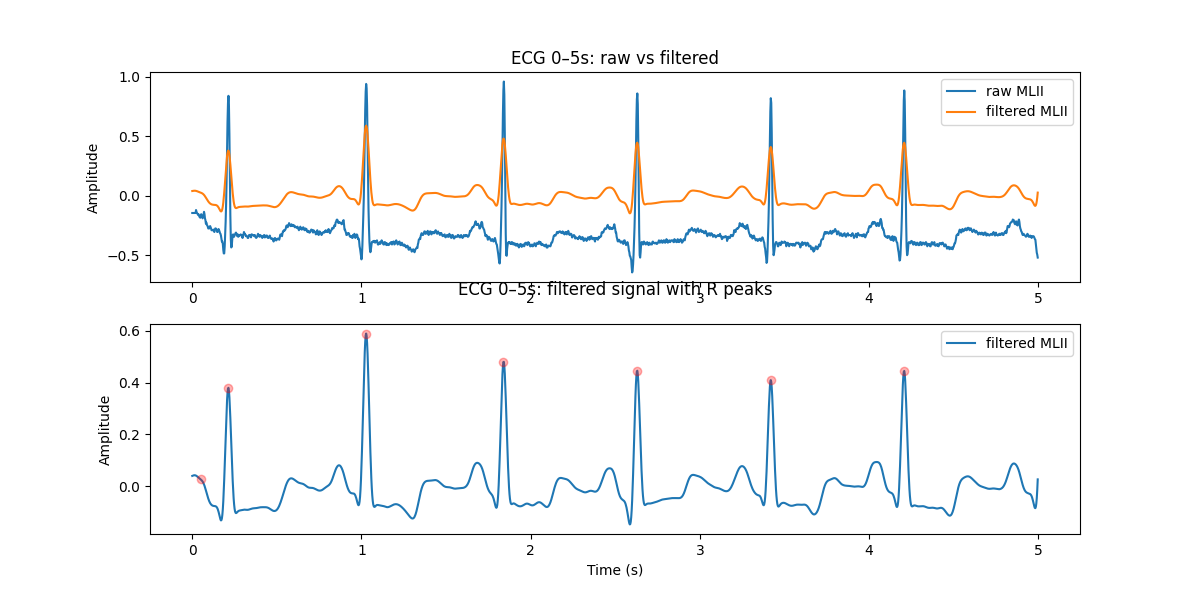
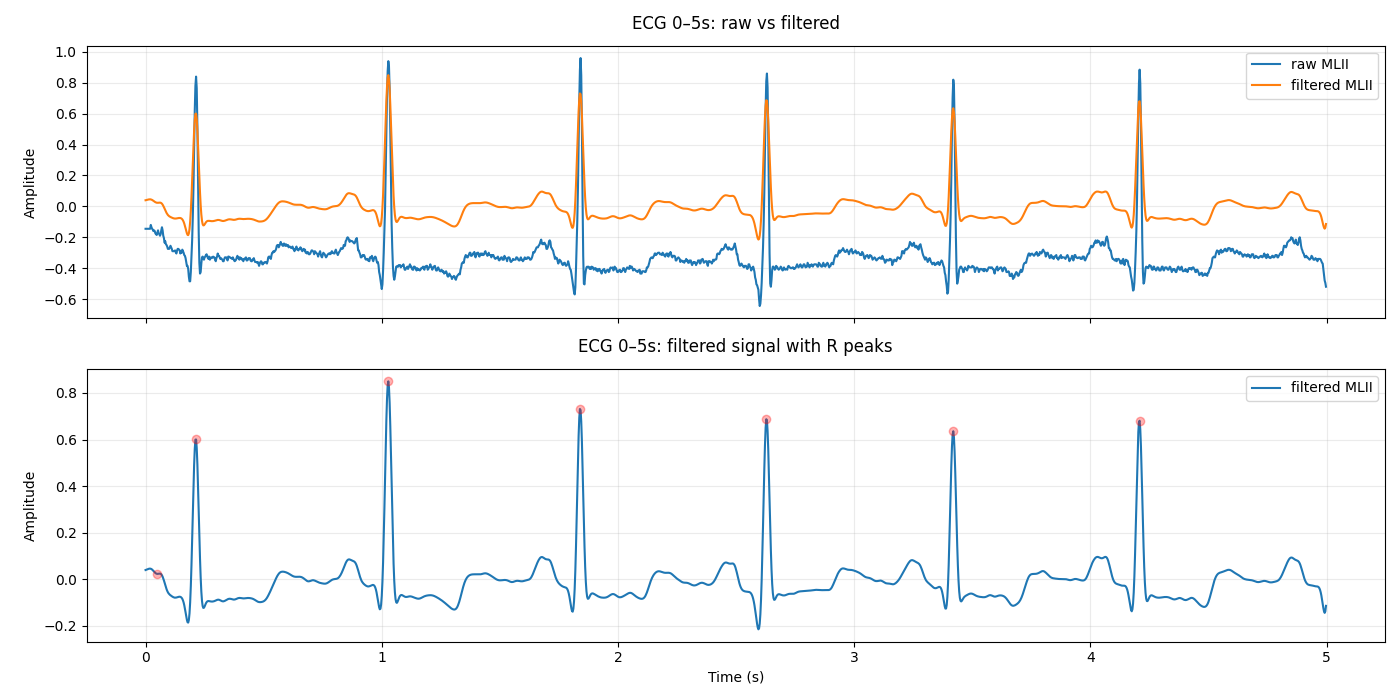
change plotting scheme to using sca for cleaner plots and update readme media

diff --git a/main.py b/main.py
@@ -37,13 +37,15 @@ def main():
     refined_r_peaks = beats.calibrate_r_peaks(bpf_notch_signal, extracted_r_peaks, fs=fs, search_radius_ms=80.0)
 
     # TODO: VALIDATE EXTRACTED R PEAKS USING ANNOTATED ONES
-
         
 
 
+
     # PLOT RAW AND FILTERED SIGNALS
-    plt.figure(figsize=(12, 6))
-    plt.subplot(2, 1, 1)
+    fig, axes = plt.subplots(2, 1, figsize=(14, 7), sharex=True)
+
+    # --- Top subplot ---
+    plt.sca(axes[0])
     plots.plot_ecg_segment(
         signal=raw_sig,
         fs=fs,
@@ -63,11 +65,13 @@ def main():
         show_annotations=False,
     )
 
-    plt.ylabel("Amplitude")
-    plt.title("ECG 0–5s: raw vs filtered") 
-    plt.legend()
+    axes[0].set_ylabel("Amplitude")
+    axes[0].set_title("ECG 0–5s: raw vs filtered", pad=12)
+    axes[0].legend(loc="upper right")
+    axes[0].grid(alpha=0.25)
 
-    plt.subplot(2, 1, 2)
+    # --- Bottom subplot ---
+    plt.sca(axes[1])
     plots.plot_ecg_segment(
         signal=bpf_notch_signal,  # offset for visibility
         fs=fs,
@@ -77,10 +81,14 @@ def main():
         label=f"filtered {channels[chan_to_plot]}",
         show_annotations=True,
     )
-    plt.ylabel("Amplitude")
-    plt.title("ECG 0–5s: filtered signal with R peaks\n")   
-    plt.xlabel("Time (s)")
-    plt.legend(loc="upper right")
+
+    axes[1].set_ylabel("Amplitude")
+    axes[1].set_title("ECG 0–5s: filtered signal with R peaks", pad=12)
+    axes[1].set_xlabel("Time (s)")
+    axes[1].legend(loc="upper right")
+    axes[1].grid(alpha=0.25)
+
+    fig.tight_layout()
     plt.show()
 
 
